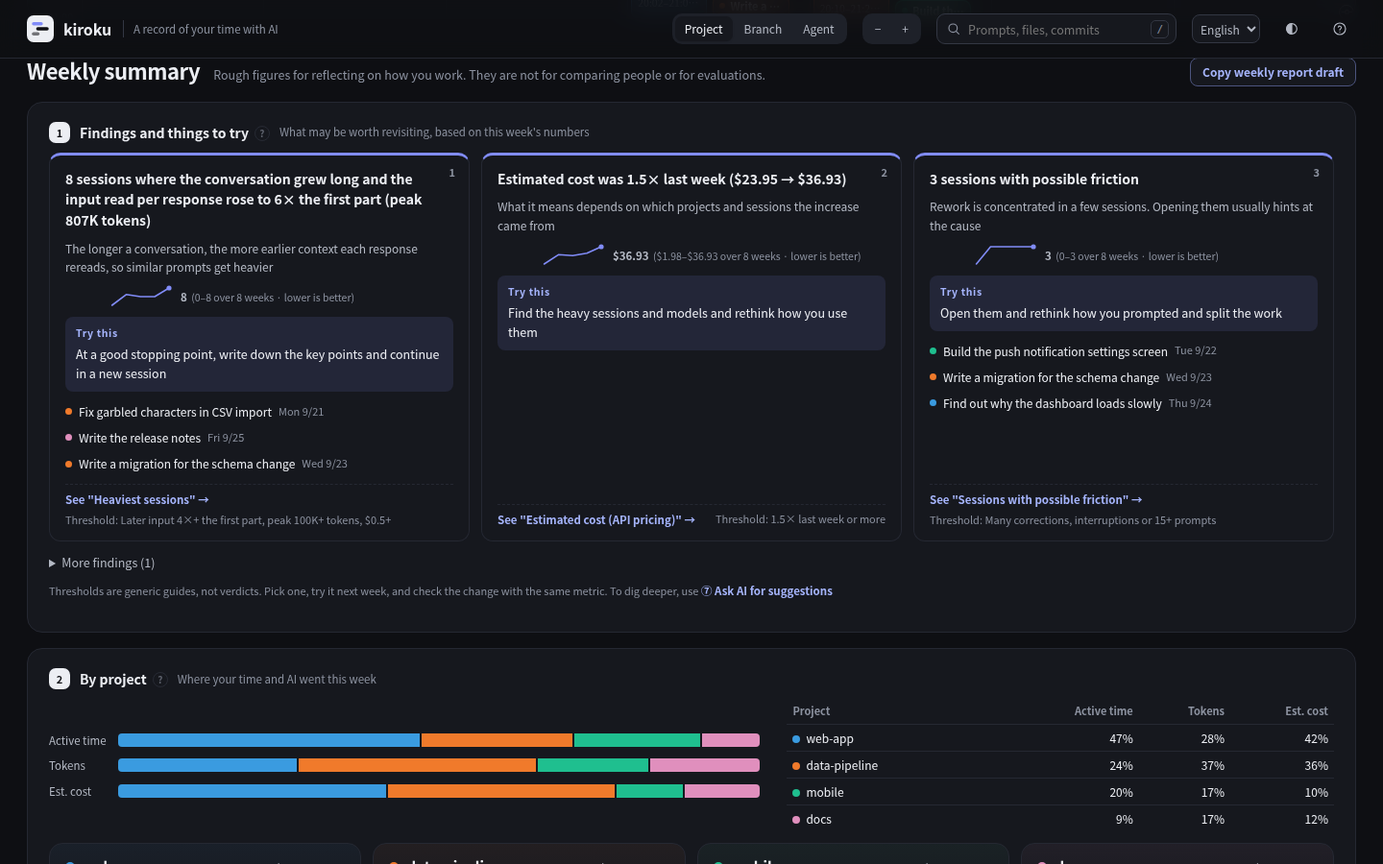
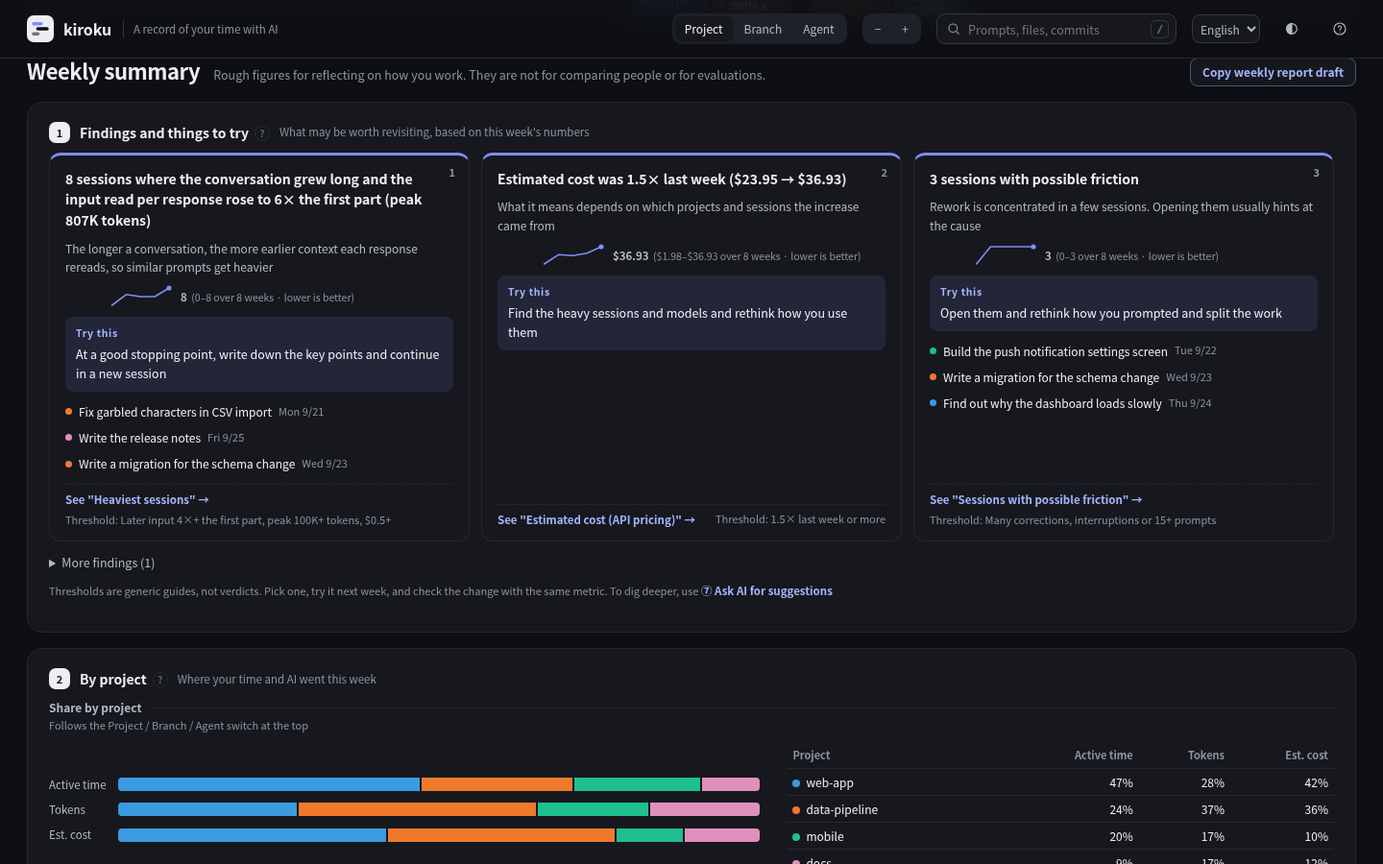
配分の帯を、ブランチ・エージェント単位でも見られるようにする
集計にブランチ・エージェントごとの作業時間（同時に動いていた分は按分）・トークン・目安コスト・クレジットを足し、
画面の「プロジェクト・ブランチ・エージェント」の切り替えに合わせて配分の帯と表を変える。
くくりが 1 つだけの期間は、帯の代わりにそう書く。

Claude-Session: https://claude.ai/code/session_01WXnCm54bK3Mj4QdxNoNc9j

diff --git a/internal/web/template.html b/internal/web/template.html
@@ -206,6 +206,8 @@ kbd{font:11px/1 var(--mono);padding:3px 5px;border-radius:5px;border:1px solid v
 .moreS .stats{margin-top:8px}
 .ocl{font:600 11px/1 var(--sans);letter-spacing:.06em;color:var(--ink-3);margin:6px 0 -6px}
 .stats.s3{grid-template-columns:repeat(3,minmax(0,1fr))}
+.shh{margin:12px 0 2px}
+.shn{margin:0;font-size:11px;color:var(--ink-3)}
 .sharebox{display:grid;grid-template-columns:minmax(0,1.3fr) minmax(0,1fr);gap:8px 28px;align-items:center;margin-top:10px}
 @media (max-width:1000px){.sharebox{grid-template-columns:minmax(0,1fr)}}
 .share{display:grid;grid-template-columns:auto minmax(0,1fr);gap:8px 12px;align-items:center}
@@ -922,12 +924,15 @@ const uThis = unit => tr(`この${unit}`, unit === "月" ? "this month" : "this 
 const uLast = unit => tr(`先${unit}`, unit === "月" ? "last month" : "last week");
 const uNext = unit => tr(`次の${unit}`, unit === "月" ? "next month" : "next week");
 const whyOf = f => EN() && f.whyEn && f.whyEn.length === f.why.length ? f.whyEn : f.why; // こじれた理由（Go が両方の言語で書く）
-/* プロジェクトごとの配分：作業時間・トークン・目安コスト・クレジットのそれぞれで、何割をどのプロジェクトに使ったか。
+/* 配分：作業時間・トークン・目安コスト・クレジットのそれぞれで、何割をどのくくりに使ったか。くくりは色分け（プロジェクト・ブランチ・エージェント）に合わせる。
    指標を縦に並べ、「時間の割にコストが多い」のようなずれを見比べられるようにする（上位 5 つ＋その他） */
-function shareBlock(ps){
-  if (ps.length < 2) return "";
-  const N = 5, top = ps.slice(0, N), rest = ps.slice(N);
-  const rows = [...top.map((p, i) => ({name: p.project, c: st.colorBy === "project" ? colorOf(p.project) : `var(--c${i})`, v: p}))];
+function shareBlock(w, ps){
+  const all = st.colorBy === "project" ? ps.map(p => ({key: p.project, minutes: p.minutes, tokens: p.tokens, cost: p.cost, credits: p.credits})) : ((w.shares || {})[st.colorBy] || []);
+  const head = `<h3 class="shh">${tr(`${CB()[st.colorBy]}ごとの配分`, `Share by ${CB()[st.colorBy].toLowerCase()}`)}</h3><p class="shn">${tr("上の「プロジェクト・ブランチ・エージェント」の切り替えに合わせて変わります", "Follows the Project / Branch / Agent switch at the top")}</p>`;
+  if (!all.length) return "";
+  if (all.length < 2) return head + `<p class="none">${tr(`この期間の${CB()[st.colorBy]}は「${esc(all[0].key)}」だけです。`, `Only "${esc(all[0].key)}" this period.`)}</p>`;
+  const N = 5, top = all.slice(0, N), rest = all.slice(N);
+  const rows = top.map(p => ({name: p.key, c: colorOf(p.key), v: p}));
   if (rest.length) rows.push({name: tr(`その他（${rest.length}）`, `Other (${rest.length})`), c: "var(--other)", other: true,
     v: rest.reduce((a, p) => ({minutes: a.minutes + p.minutes, tokens: a.tokens + p.tokens, cost: a.cost + p.cost, credits: a.credits + p.credits}), {minutes: 0, tokens: 0, cost: 0, credits: 0})});
   const ms = [["minutes", tr("作業時間", "Active time"), dur], ["tokens", tr("トークン", "Tokens"), tok], ["cost", tr("目安コスト", "Est. cost"), usd], ["credits", tr("クレジット", "Credits"), cr]]
@@ -935,8 +940,8 @@ function shareBlock(ps){
   if (!ms.length) return "";
   const pc = (r, m) => Math.round((r.v[m.k] || 0) * 100 / m.t);
   const bars = ms.map(m => `<span class="k">${m.n}</span><div class="stack" role="img" aria-label="${esc(`${m.n}: ${rows.map(r => `${r.name} ${pc(r, m)}%`).join(", ")}`)}">${rows.filter(r => r.v[m.k] > 0).map(r => `<span style="flex:${r.v[m.k]};--c:${r.c}" title="${esc(`${r.name}: ${m.f(r.v[m.k])} (${pc(r, m)}%)`)}"></span>`).join("")}</div>`).join("");
-  const tab = `<table class="shtab"><thead><tr><th scope="col">${tr("プロジェクト", "Project")}</th>${ms.map(m => `<th scope="col">${m.n}</th>`).join("")}</tr></thead><tbody>${rows.map(r => `<tr style="--c:${r.c}"><td title="${esc(r.name)}"><i aria-hidden="true"></i>${esc(r.name)}</td>${ms.map(m => `<td>${r.v[m.k] ? pc(r, m) + "%" : "—"}</td>`).join("")}</tr>`).join("")}</tbody></table>`;
-  return `<div class="sharebox"><div class="share">${bars}</div>${tab}</div>`;
+  const tab = `<table class="shtab"><thead><tr><th scope="col">${CB()[st.colorBy]}</th>${ms.map(m => `<th scope="col">${m.n}</th>`).join("")}</tr></thead><tbody>${rows.map(r => `<tr style="--c:${r.c}"><td title="${esc(r.name)}"><i aria-hidden="true"></i>${esc(r.name)}</td>${ms.map(m => `<td>${r.v[m.k] ? pc(r, m) + "%" : "—"}</td>`).join("")}</tr>`).join("")}</tbody></table>`;
+  return `${head}<div class="sharebox"><div class="share">${bars}</div>${tab}</div>`;
 }
 /* プロジェクト別：何に何時間、どれだけのトークン・コスト・クレジットを、どのモデル中心に使い、何が重かったか */
 function projectPanel(w, ph, unit){
@@ -959,7 +964,7 @@ function projectPanel(w, ph, unit){
       ${p.heavy && use(p.heavy) ? `<button class="pheavy" data-id="${esc(p.heavy.id)}"><em>${tr("いちばん重い", "Heaviest")}</em><span class="t">${esc(p.heavy.title)}</span><span class="m">${use(p.heavy)}</span></button>` : ""}
     </article>`; }).join("");
   return `<section class="panel projs">${ph(2, tr("プロジェクト別", "By project"), tr(`この${unit}、どのプロジェクトに時間と AI を使ったか`, `Where your time and AI went ${uThis(unit)}`), "projects")}
-    ${shareBlock(ps)}
+    ${shareBlock(w, ps)}
     <div class="pgrid">${cards}</div>
     ${ps.length > LIMIT ? `<button class="pill pmore" id="pmore">${st.allProj ? tr("上位だけにする", "Show top projects only") : tr(`ほか ${ps.length - LIMIT} プロジェクトも見る`, `Show ${plural(ps.length - LIMIT, "more project")}`)}</button>` : ""}</section>`;
 

diff --git a/internal/report/week.go b/internal/report/week.go
@@ -73,33 +73,34 @@ type WeekUsage struct {
 
 // Summary は 1 期間（週か月）の集計。
 type Summary struct {
-	Usage         WeekUsage        `json:"usage"`
-	Start         string           `json:"start"`         // 期間の最初の日（YYYY-MM-DD）
-	FixRate       *float64         `json:"fixRate"`       // 言い直し・中断のあった依頼の割合（%）。依頼がなければ nil
-	CostPerAsk    *float64         `json:"costPerAsk"`    // 1 依頼あたりの目安コスト。トークンの記録がなければ nil
-	Outputs       core.OutputTotal `json:"outputs"`       // AI が実行したコミット・PR 作成・変更した行（成果の代理）
-	OutSessions   int              `json:"outSessions"`   // コミットか PR 作成まで行ったセッションの数
-	CostPerCommit *float64         `json:"costPerCommit"` // 1 コミットあたりの目安コスト。コミットかトークンの記録がなければ nil
-	Git           GitTotal         `json:"git"`           // 手元の git リポジトリのコミット（gitlog）
-	Sessions      int              `json:"sessions"`
-	Prompts       int              `json:"prompts"`
-	Active        int              `json:"active"`
-	AI            int              `json:"ai"`
-	Parallel      int              `json:"parallel"`
-	MaxConc       int              `json:"maxConc"`
-	Night         int              `json:"night"`
-	Weekend       int              `json:"weekend"`
-	Focus         []Block          `json:"focus"`
-	SwitchesAvg   float64          `json:"switchesAvg"`
-	SwitchesMax   int              `json:"switchesMax"`
-	WaitMedian    *float64         `json:"waitMedian"`
-	WaitP90       *float64         `json:"waitP90"`
-	WaitCount     int              `json:"waitCount"`
-	Projects      [][2]any         `json:"projects"`
-	ProjectStats  []ProjectStat    `json:"projectStats"` // プロジェクト別のまとめ（project.go）
-	Days          []Day            `json:"days"`         // 期間の日ごと（週なら 7、月なら 28〜31）
-	Friction      []Friction       `json:"friction"`
-	Native        []NativeGroup    `json:"native"` // エージェント別の参考指標
+	Usage         WeekUsage          `json:"usage"`
+	Start         string             `json:"start"`         // 期間の最初の日（YYYY-MM-DD）
+	FixRate       *float64           `json:"fixRate"`       // 言い直し・中断のあった依頼の割合（%）。依頼がなければ nil
+	CostPerAsk    *float64           `json:"costPerAsk"`    // 1 依頼あたりの目安コスト。トークンの記録がなければ nil
+	Outputs       core.OutputTotal   `json:"outputs"`       // AI が実行したコミット・PR 作成・変更した行（成果の代理）
+	OutSessions   int                `json:"outSessions"`   // コミットか PR 作成まで行ったセッションの数
+	CostPerCommit *float64           `json:"costPerCommit"` // 1 コミットあたりの目安コスト。コミットかトークンの記録がなければ nil
+	Git           GitTotal           `json:"git"`           // 手元の git リポジトリのコミット（gitlog）
+	Sessions      int                `json:"sessions"`
+	Prompts       int                `json:"prompts"`
+	Active        int                `json:"active"`
+	AI            int                `json:"ai"`
+	Parallel      int                `json:"parallel"`
+	MaxConc       int                `json:"maxConc"`
+	Night         int                `json:"night"`
+	Weekend       int                `json:"weekend"`
+	Focus         []Block            `json:"focus"`
+	SwitchesAvg   float64            `json:"switchesAvg"`
+	SwitchesMax   int                `json:"switchesMax"`
+	WaitMedian    *float64           `json:"waitMedian"`
+	WaitP90       *float64           `json:"waitP90"`
+	WaitCount     int                `json:"waitCount"`
+	Projects      [][2]any           `json:"projects"`
+	ProjectStats  []ProjectStat      `json:"projectStats"` // プロジェクト別のまとめ（project.go）
+	Shares        map[string][]Share `json:"shares"`       // ブランチ・エージェントごとの配分（share.go）
+	Days          []Day              `json:"days"`         // 期間の日ごと（週なら 7、月なら 28〜31）
+	Friction      []Friction         `json:"friction"`
+	Native        []NativeGroup      `json:"native"` // エージェント別の参考指標
 	start, end    time.Time
 }
 
@@ -456,6 +457,7 @@ func Summarize(data []*core.Session, wsT, weT time.Time, commits ...gitlog.Commi
 		Outputs: outs, OutSessions: outSes, CostPerCommit: costPerCommit, Git: gitTot,
 		Native:       nativeGroups(data, ws, we),
 		ProjectStats: projectStats(data, ws, we, projects, projOrder, commits),
+		Shares:       map[string][]Share{"branch": shares(data, ws, we, mins, ShareKeys["branch"]), "source": shares(data, ws, we, mins, ShareKeys["source"])},
 		FixRate:      fixRate, CostPerAsk: costPer, Usage: usage, Start: wsT.Format("2006-01-02"), Sessions: sessions, Prompts: np,
 		Active: len(active), AI: ai, Parallel: parallel, MaxConc: maxConc, Night: night, Weekend: weekend,
 		Focus: blocks, SwitchesAvg: core.Round(float64(swSum)/float64(activeDays), 1), SwitchesMax: swMax,

diff --git a/internal/report/share.go b/internal/report/share.go
@@ -1,0 +1,94 @@
+package report
+
+import (
+	"sort"
+
+	"github.com/MichinaoShimizu/kiroku/internal/core"
+)
+
+// Share は期間の中で 1 つのくくり（ブランチ・エージェント）に使った量。
+// 画面の「配分」の帯で、作業時間・トークン・目安コスト・クレジットの割合を見比べるのに使う。
+type Share struct {
+	Key     string  `json:"key"`
+	Minutes float64 `json:"minutes"` // 作業していた時間（同時に動いていた別のくくりとは按分）
+	Tokens  float64 `json:"tokens"`
+	Cost    float64 `json:"cost"`
+	Credits float64 `json:"credits"`
+}
+
+// ShareKeys は画面の色分けと同じくくり方。プロジェクトは ProjectStats を使う。
+var ShareKeys = map[string]func(*core.Session) string{
+	"branch": func(s *core.Session) string {
+		b := "—"
+		if s.Branch != nil && *s.Branch != "" {
+			b = *s.Branch
+		}
+		return s.Project + " · " + b
+	},
+	"source": func(s *core.Session) string { return s.Source },
+}
+
+// shares はくくりごとの使った量を、作業時間の多い順に返す。mins は Summarize の分ごとの動いていたセッション。
+func shares(data []*core.Session, ws, we float64, mins [][]sp, key func(*core.Session) string) []Share {
+	by := map[string]*Share{}
+	get := func(k string) *Share {
+		if by[k] == nil {
+			by[k] = &Share{Key: k}
+		}
+		return by[k]
+	}
+	keyOf := map[string]string{}
+	for _, d := range data {
+		if d.End < ws || d.Start >= we {
+			continue
+		}
+		k := key(d)
+		keyOf[d.ID] = k
+		s := get(k)
+		in := func(t *float64) bool {
+			v := d.Start
+			if t != nil && *t != 0 {
+				v = *t
+			}
+			return ws <= v && v < we
+		}
+		for _, e := range d.UEv {
+			if in(e.T) {
+				s.Tokens += e.U.Total()
+				if e.Cost != nil {
+					s.Cost += *e.Cost
+				}
+			}
+		}
+		for _, c := range d.CEv {
+			if in(c.T) {
+				s.Credits += c.V
+			}
+		}
+	}
+	for _, m := range mins {
+		seen := map[string]bool{}
+		var ks []string
+		for _, x := range m {
+			if k, ok := keyOf[x.sid]; ok && !seen[k] {
+				seen[k] = true
+				ks = append(ks, k)
+			}
+		}
+		for _, k := range ks {
+			get(k).Minutes += 1 / float64(len(ks))
+		}
+	}
+	out := make([]Share, 0, len(by))
+	for _, s := range by {
+		s.Minutes, s.Tokens, s.Cost, s.Credits = core.Round(s.Minutes, 0), core.Round(s.Tokens, 0), core.Round(s.Cost, 4), core.Round(s.Credits, 4)
+		out = append(out, *s)
+	}
+	sort.SliceStable(out, func(i, j int) bool {
+		if out[i].Minutes != out[j].Minutes {
+			return out[i].Minutes > out[j].Minutes
+		}
+		return out[i].Key < out[j].Key
+	})
+	return out
+}

diff --git a/internal/report/share_test.go b/internal/report/share_test.go
@@ -1,0 +1,44 @@
+package report
+
+import (
+	"testing"
+	"time"
+
+	"github.com/MichinaoShimizu/kiroku/internal/core"
+)
+
+// ブランチ・エージェントごとの配分：同時に動いていた時間は按分し、トークン・コスト・クレジットは期間の中の記録だけを足す。
+func TestShares(t *testing.T) {
+	ws := time.Date(2026, 9, 28, 0, 0, 0, 0, time.Local)
+	t0 := float64(ws.Add(10 * time.Hour).Unix())
+	cost, before := 0.5, t0-86400*7
+	main, feat := "main", "feat"
+	a := &core.Session{ID: "a", Source: "Claude Code", Project: "app", Branch: &main, Start: t0, End: t0 + 3600,
+		Segs: [][3]float64{{t0, t0 + 3600, 1}},
+		UEv:  []core.Event{{T: &t0, U: core.Tokens{In: 100}, Cost: &cost}, {T: &before, U: core.Tokens{In: 999}}}}
+	b := &core.Session{ID: "b", Source: "Kiro CLI", Project: "app", Branch: &feat, Start: t0 + 1800, End: t0 + 5400,
+		Segs: [][3]float64{{t0 + 1800, t0 + 5400, 1}}, CEv: []core.Credit{{T: &t0, V: 2}}}
+	c := &core.Session{ID: "c", Source: "Kiro CLI", Project: "web", Start: t0, End: t0 + 600, Segs: [][3]float64{{t0, t0 + 600, 1}}}
+	w := Summarize([]*core.Session{a, b, c}, ws, ws.AddDate(0, 0, 7))
+	if w == nil {
+		t.Fatal("summary is nil")
+	}
+	got := map[string]Share{}
+	for _, s := range w.Shares["branch"] {
+		got[s.Key] = s
+	}
+	// a（60 分）は最初の 10 分を c と、後半 30 分を b と分け合う。b（60 分）は前半 30 分を a と分け合う
+	if s := got["app · main"]; s.Tokens != 100 || s.Cost != 0.5 || s.Minutes != 40 {
+		t.Errorf("app · main = %+v", s)
+	}
+	if s := got["app · feat"]; s.Credits != 2 || s.Minutes != 45 {
+		t.Errorf("app · feat = %+v", s)
+	}
+	if s := got["web · —"]; s.Minutes != 5 {
+		t.Errorf("web · — = %+v", s)
+	}
+	src := w.Shares["source"]
+	if len(src) != 2 || src[0].Key != "Kiro CLI" || src[1].Key != "Claude Code" {
+		t.Errorf("source = %+v", src)
+	}
+}

diff --git a/main_test.go b/main_test.go
@@ -212,7 +212,7 @@ func compare(want, got any, path string, diffs *[]string) {
 			inDay := strings.Contains(path, ".days[") && !strings.Contains(path[strings.LastIndex(path, ".days[")+1:], ".")
 			if k == "unpriced" && filepath.Base(filepath.ToSlash(path)) == "usage" || k == "native" ||
 				inDay && (k == "tokens" || k == "cost" || k == "credits") || // Go 版で足した日ごとの使用量
-				k == "projectStats" || k == "limits" || k == "ctx" || k == "outputs" || k == "file" || k == "prs" || k == "outSessions" || k == "costPerCommit" || k == "git" || inDay && k == "commits" || // Go 版で足したプロジェクト別のまとめ・成果
+				k == "projectStats" || k == "shares" || k == "limits" || k == "ctx" || k == "outputs" || k == "file" || k == "prs" || k == "outSessions" || k == "costPerCommit" || k == "git" || inDay && k == "commits" || // Go 版で足したプロジェクト別のまとめ・成果
 				k == "whyEn" || k == "labelEn" || k == "detailEn" { // Go 版で足した英語表示の文言
 				continue
 			}

diff --git a/docs/guide.md b/docs/guide.md
@@ -56,7 +56,7 @@ go install github.com/MichinaoShimizu/kiroku@latest
   - セッションの「変更したファイル」：そのセッションの間のコミットで変わったファイルなら、そのコミットでのファイルのページを開きます
   - セッションの「作った PR」：AI が作った PR（`gh pr create` や GitHub のツールの結果に出た URL）を開きます
   - セッションの「履歴ファイル」：そのセッションの元の履歴を開きます。`kiroku serve` では画面から（読み込んだセッションの履歴ファイルだけを、手元の画面にだけ返します）、`kiroku html` では `file://` で開きます。SQLite の履歴は開けないので、パスのコピーだけです
-- カレンダーの下に、週次・月次サマリーを表示します。いちばん上の ① 気づきと、試せること では、基準を超えた指標を「見えたこと・試せること・該当するセッション・基準」の形で優先度の高い順に 3 件まで示します。「〜を見る」を押すと元の指標へ移動し、説明を開きます。各カードには、その指標の 8 週（月表示では 8 か月）の推移を表示します。試したことが効いたかは、次の期間以降にこの推移で確かめます。② プロジェクト別では、いちばん上に、作業時間・トークン・目安コスト・クレジットのそれぞれを何割どのプロジェクトに使ったかを、横に並んだ帯と表で示します（上位 5 つ＋その他）。指標どうしを見比べると「時間の割に目安コストが多い」プロジェクトがわかります。その下のカードでは、プロジェクトごとに「どのセッションに何時間、どれだけのトークン・目安コスト・クレジットを、どのモデルを中心に使い、どれが最も重かったか」と成果の印を示します。③ コストと成果では、使ったもの（作業時間・目安コスト・トークン・クレジット）と残ったもの（コミット・PR・変更した行など）を並べます。続いて ④ 時間の使い方 ⑤ AI の使い方 ⑥ 週 / 月のかたち、最後に ⑦ AI に改善案を聞く が表示されます。④ 時間の使い方では、推定を含む指標（言い直し・中断、切り替え、並列、待たせ時間）を「詳しい指標」に折りたたんでいます
+- カレンダーの下に、週次・月次サマリーを表示します。いちばん上の ① 気づきと、試せること では、基準を超えた指標を「見えたこと・試せること・該当するセッション・基準」の形で優先度の高い順に 3 件まで示します。「〜を見る」を押すと元の指標へ移動し、説明を開きます。各カードには、その指標の 8 週（月表示では 8 か月）の推移を表示します。試したことが効いたかは、次の期間以降にこの推移で確かめます。② プロジェクト別では、いちばん上に、作業時間・トークン・目安コスト・クレジットのそれぞれを何割どこに使ったかを、横に並んだ帯と表で示します（上位 5 つ＋その他）。くくりは上の「プロジェクト・ブランチ・エージェント」の切り替えに合わせて変わります。指標どうしを見比べると「時間の割に目安コストが多い」プロジェクトやブランチ、エージェントがわかります。その下のカードでは、プロジェクトごとに「どのセッションに何時間、どれだけのトークン・目安コスト・クレジットを、どのモデルを中心に使い、どれが最も重かったか」と成果の印を示します。③ コストと成果では、使ったもの（作業時間・目安コスト・トークン・クレジット）と残ったもの（コミット・PR・変更した行など）を並べます。続いて ④ 時間の使い方 ⑤ AI の使い方 ⑥ 週 / 月のかたち、最後に ⑦ AI に改善案を聞く が表示されます。④ 時間の使い方では、推定を含む指標（言い直し・中断、切り替え、並列、待たせ時間）を「詳しい指標」に折りたたんでいます
 - 各指標の「?」を押すと、定義と、そこから言えること・言えないこと・打てる手を表示します
 - 「AI に改善案を聞く」には、表示中の週・月の集計をもとに、使い方の改善案を AI に聞くためのプロンプトを表示します。「プロンプトをコピー」でコピーし、お使いの AI エージェントに貼り付けて使います（kiroku 自身は AI を呼び出しません）。セッション名（依頼文の一部）とプロジェクト名を含むため、送る前に内容を確認してください
 - 検索（右上、`/`）：依頼文・タイトル・プロジェクト・ブランチに加えて、変更したファイル・PR・そのセッションの間のコミット（件名・ハッシュ・ファイル）も探します。カレンダーは一致したセッションだけを表示し、サマリーの位置に全期間の検索結果（どこに一致したかの抜粋つき）を表示します。結果を押すと、その週を開いて詳細を表示します

diff --git a/docs/guide.en.md b/docs/guide.en.md
@@ -56,7 +56,7 @@ The old forms `kiroku --serve`, `--json` and `-o` still work for now. `--weekly`
   - A session's "Files changed": a file changed by a commit made during that session opens the page for that file as of that commit
   - A session's "Pull requests created": opens pull requests created by AI (URLs that appeared in the results of `gh pr create` or GitHub tools)
   - A session's "History file": opens the original history of that session. In `kiroku serve` it opens from the view (only history files of loaded sessions are served, and only to the view on your machine); in `kiroku html` it opens via `file://`. SQLite histories cannot be opened, so you can only copy the path
-- Below the calendar, the weekly and monthly summary is shown. At the top, ① Findings and things to try shows up to 3 metrics that crossed a threshold, in priority order, as cards with what was observed, "Try this", the related sessions and the "Threshold". Press "See … →" to jump to the original metric and open its explanation. Each card shows that metric's 8-week trend (8 months in month view). To see whether something you tried worked, check this trend in later periods. ② By project starts with bars and a table showing what share of active time, tokens, estimated cost and credits went to each project (top 5 plus Other). Comparing the rows shows, for example, a project whose share of estimated cost is larger than its share of time. Below that, the cards show, for each project, which sessions took how many hours, how many tokens, how much estimated cost and credits, which models were mainly used, and which session was the heaviest, along with output signals. ③ Cost and outputs puts what you spent (active time, estimated cost, tokens, credits) next to what was left behind (commits, pull requests, lines changed and so on). Then come ④ How you spent time, ⑤ How you used AI, ⑥ Shape of the week / month, and finally ⑦ Ask AI for suggestions. In ④ How you spent time, metrics that include estimates (corrections and interruptions, switches, parallel, wait time) are collapsed under "More metrics (includes estimates)"
+- Below the calendar, the weekly and monthly summary is shown. At the top, ① Findings and things to try shows up to 3 metrics that crossed a threshold, in priority order, as cards with what was observed, "Try this", the related sessions and the "Threshold". Press "See … →" to jump to the original metric and open its explanation. Each card shows that metric's 8-week trend (8 months in month view). To see whether something you tried worked, check this trend in later periods. ② By project starts with bars and a table showing what share of active time, tokens, estimated cost and credits went where (top 5 plus Other). The grouping follows the Project / Branch / Agent switch at the top. Comparing the rows shows, for example, a project, branch or agent whose share of estimated cost is larger than its share of time. Below that, the cards show, for each project, which sessions took how many hours, how many tokens, how much estimated cost and credits, which models were mainly used, and which session was the heaviest, along with output signals. ③ Cost and outputs puts what you spent (active time, estimated cost, tokens, credits) next to what was left behind (commits, pull requests, lines changed and so on). Then come ④ How you spent time, ⑤ How you used AI, ⑥ Shape of the week / month, and finally ⑦ Ask AI for suggestions. In ④ How you spent time, metrics that include estimates (corrections and interruptions, switches, parallel, wait time) are collapsed under "More metrics (includes estimates)"
 - Press "?" on any metric to see its definition and what it tells you, what it doesn't tell you, and what to try
 - "Ask AI for suggestions" shows a prompt, based on the figures for the week or month shown, that asks an AI for suggestions on how you use it. Copy it with "Copy prompt" and paste it into the AI agent you use (kiroku itself never calls an AI). It includes session names (parts of your prompts) and project names, so check it before sending
 - Search (top right, `/`): in addition to prompts, titles, projects and branches, it searches files changed, pull requests and commits made during each session (subject, hash, files). The calendar shows only matching sessions, and all-time search results (with excerpts showing where they matched) appear in place of the summary. Press a result to open its week and show the details

diff --git a/README.md b/README.md
@@ -26,7 +26,7 @@ kiroku connects to the network only when `install.sh` or `kiroku update` downloa
 
 - **Calendar**: when, in which project, and what you asked, by week or month. Your local git commits appear alongside, so you can see what changed where.
 - **Findings and things to try**: metrics that crossed a threshold, each with what was observed, why it matters, one thing to try, the related sessions and an 8-week trend.
-- **Summary**: cost (time, tokens, estimated cost, credits) next to outcomes (commits, pull requests, lines edited by AI), by project and by day. Share bars compare each project's share of time with its share of tokens and cost. Every metric explains what it can and cannot tell you.
+- **Summary**: cost (time, tokens, estimated cost, credits) next to outcomes (commits, pull requests, lines edited by AI), by project and by day. Share bars compare each project's, branch's or agent's share of time with its share of tokens and cost. Every metric explains what it can and cannot tell you.
 - **Search and weekly report**: search prompts, edited files and commits across all time, and copy a weekly report draft of what you did, your commits and pull requests.
 - **Improvement prompts**: build a prompt from the shown week, month or a single session that asks an AI for suggestions on how you use it. Copy it into the agent you already use.
 

diff --git a/CHANGELOG.md b/CHANGELOG.md
@@ -11,7 +11,7 @@ Notable changes to kiroku. Each release on GitHub uses its section here as the r
 - Live demo with dummy data on GitHub Pages
 - `SECURITY.md` and `CONTRIBUTING.md`
 - The date of the price table used for estimated cost
-- Share bars in "By project": what share of active time, tokens, estimated cost and credits went to each project, side by side, with a table of the percentages
+- Share bars in "By project": what share of active time, tokens, estimated cost and credits went to each project, branch or agent (following the Project / Branch / Agent switch), side by side, with a table of the percentages
 
 ### Changed
 
